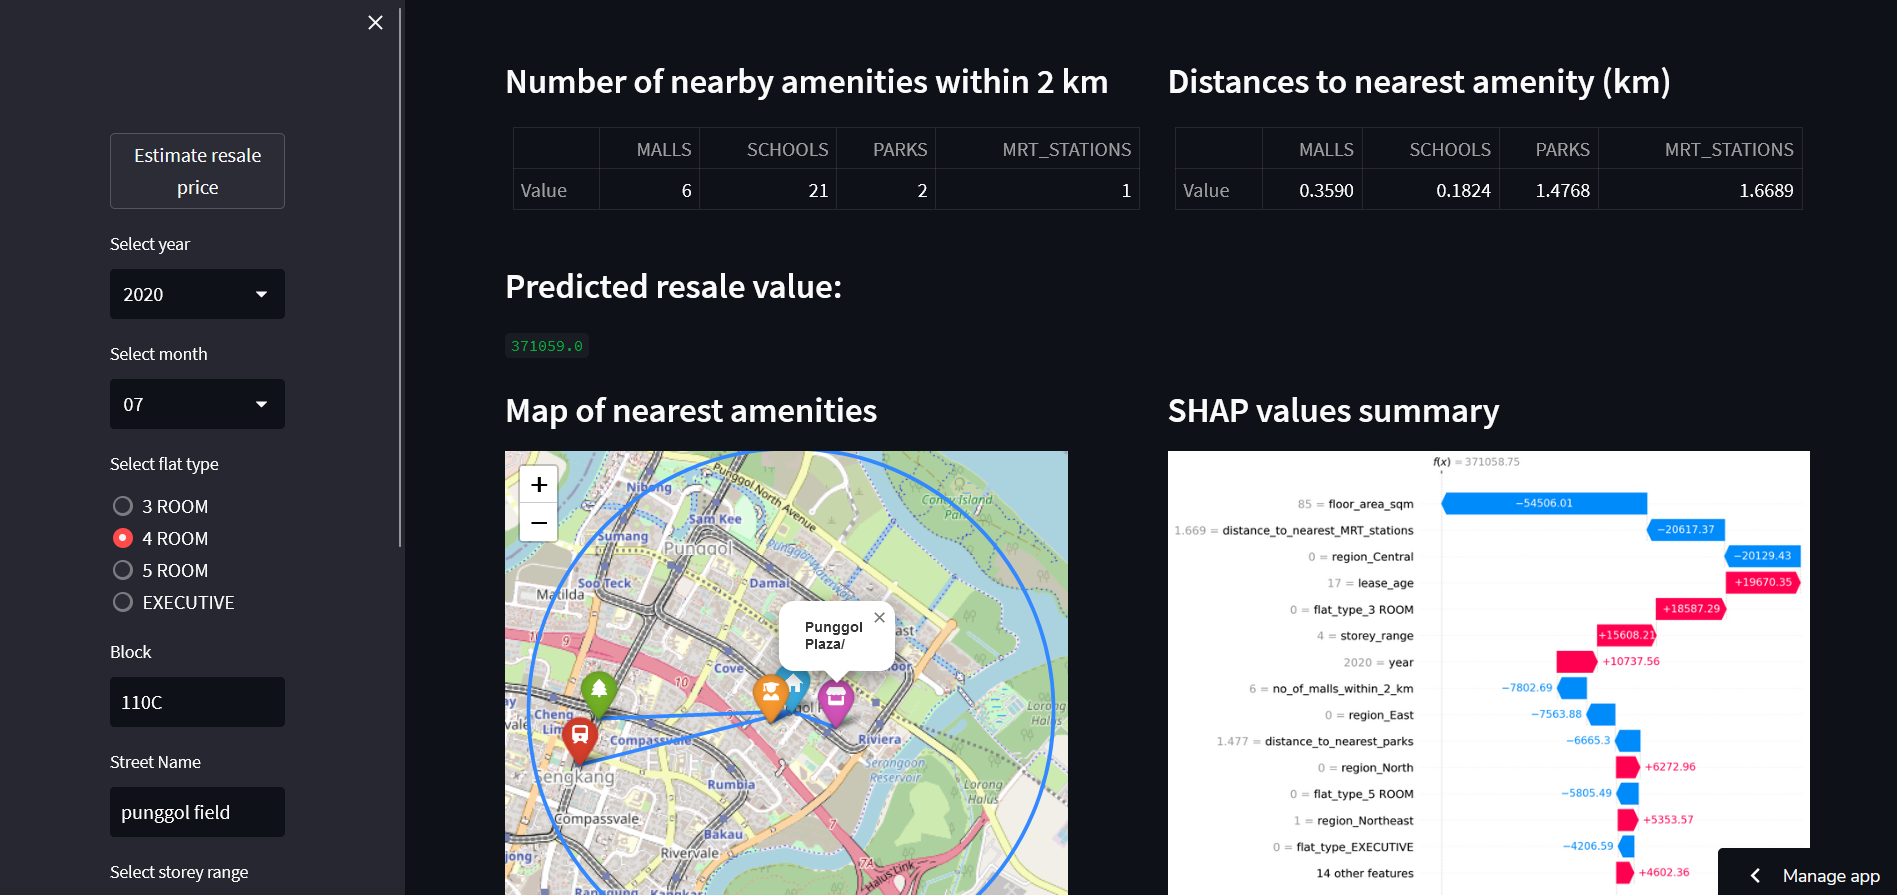
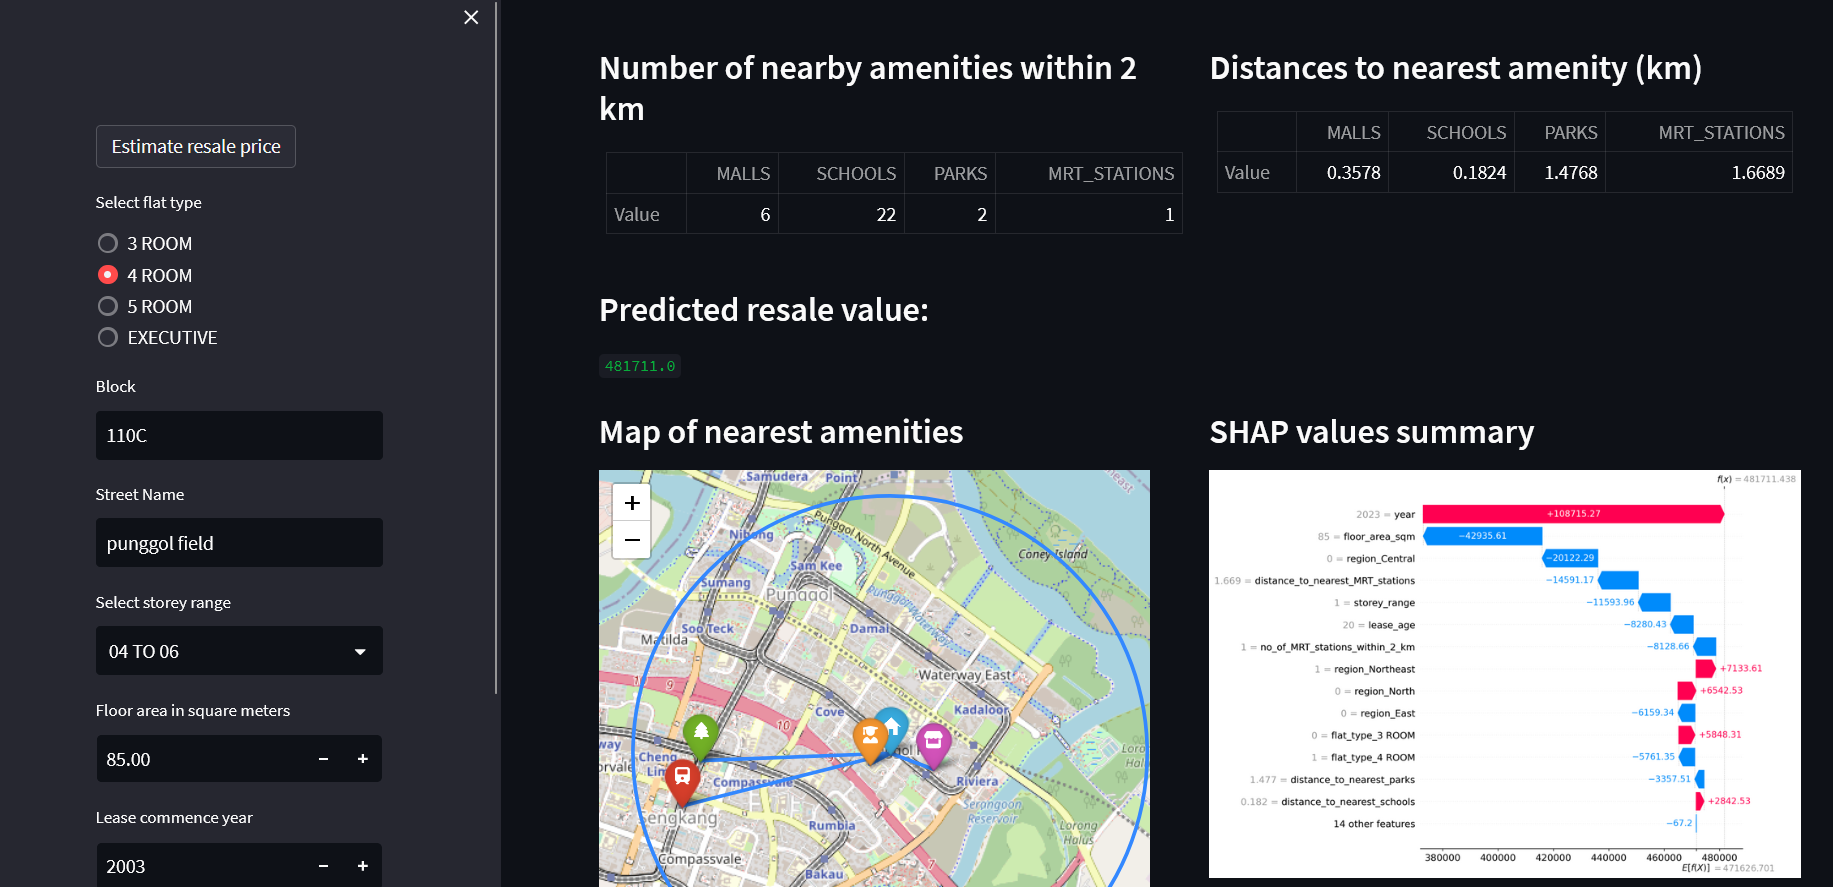
Updated hdb project with retrained model

diff --git a/projects/hdb/hdb.html b/projects/hdb/hdb.html
@@ -89,9 +89,9 @@
                                 </ul>
 
                                 <p>The HDB resale price data was downloaded from Data.gov.sg, 
-                                    containing approximately 120,000 resale transactions from 2015 to 2020. </p>
+                                    containing approximately 192,000 resale transactions from January 2015 to June 2023. </p>
 
-                                <p>There are a total of 117,527 rows and 11 columns in the dataset. Each row represents a hdb resale transaction, 
+                                <p>There are a total of 192,489 rows and 11 columns in the dataset. Each row represents a hdb resale transaction, 
                                     and the target variable is the "resale_price" variable. The EDA selection consists of the following main tasks: 
                                 </p>
                                 <ol type="1">
@@ -164,6 +164,7 @@
                                         <td>No</td>
                                         <td> <p>- majority flat type is "Model A" + significant relationship with target (one-way ANOVA)</p>
                                              <p>- High cardinality (20 unique values) Will need to consolidate common flat models together to reduce cardinality</p></td>
+                                             <p>- can consider dropping samples with "3Gen" (only 11 samples)</p>
                                     </tr>
                                     <tr>
                                         <td>7</td>
@@ -223,7 +224,7 @@
                                         <td>Float</td>
                                         <td>No</td>
                                         <td> <p>- slight positive (+) correlation with the resale value of the flat</p>
-                                             <p>- mean distance to the nearest school is about 300m</p></td>
+                                             <p>- mean distance to the nearest school is about 334m</p></td>
                                     </tr>
                                     <tr>
                                         <td>3</td>
@@ -239,7 +240,7 @@
                                         <td>Float</td>
                                         <td>No</td>
                                         <td> <p>- slight negative (-) correlation with the resale value of the flat</p>
-                                             <p>- mean distance to the nearest mrt station is about 855m</p></td>
+                                             <p>- mean distance to the nearest mrt station is about 851m</p></td>
                                     </tr>
                                     <tr>
                                         <td>5</td>
@@ -255,7 +256,7 @@
                                         <td>Float</td>
                                         <td>No</td>
                                         <td> <p>- slight negative (-) correlation with the resale value of the flat</p>
-                                             <p>- mean distance to the nearest mall is about 665m</p></td>
+                                             <p>- mean distance to the nearest mall is about 668m</p></td>
                                     </tr>
                                     <tr>
                                         <td>7</td>
@@ -361,12 +362,12 @@
                                         <td>Random Forest</td>
                                         <td>69247.1</td>
                                         <td>68800.6</td>
-                                        <td>13282.7</td>
-                                        <td>26525.8</td>
+                                        <td>15128.1</td>
+                                        <td>29324.4</td>
                                         <td>0.771</td>
                                         <td>0.77</td>
-                                        <td>0.992</td>
-                                        <td>0.966</td>
+                                        <td>0.991</td>
+                                        <td>0.967</td>
                                         <td><p>max_depth:20, 
                                             min_samples_leaf:1, 
                                             n_estimators:205</p></td>
@@ -392,31 +393,31 @@
                                     </tr>
                                     <tr>
                                         <td>XGBoost</td>
-                                        <td>25637.9</td>
-                                        <td>29166.1</td>
-                                        <td>16657.6</td>
-                                        <td>25119.7</td>
-                                        <td>0.969</td>
-                                        <td>0.959</td>
-                                        <td>0.987</td>
-                                        <td>0.969</td>
-                                        <td><p>max_depth:8, 
+                                        <td>28757.7</td>
+                                        <td>31126.2</td>
+                                        <td>14394.9</td>
+                                        <td>25792.9</td>
+                                        <td>0.968</td>
+                                        <td>0.963</td>
+                                        <td>0.992</td>
+                                        <td>0.975</td>
+                                        <td><p>max_depth:10, 
                                             learning_rate:0.1, 
-                                            n_estimators:480</p></td>
+                                            n_estimators:470</p></td>
                                     </tr>
                                 </table>
 
-                                <p>For the baseline models, XGBoost has the lowest validation root mean squared error of 29116, 
-                                    and the highest validation R squared score of 0.959. There is not much overfitting on the training set, 
+                                <p>For the baseline models, XGBoost has the lowest validation root mean squared error of 31126, 
+                                    and the highest validation R squared score of 0.963. There is not much overfitting on the training set, 
                                     as observed by the minor differences between the train and validation scores. </p>
 
                                 <p>After fine tuning the hyperparameters to minimize the validation root mean squared error using the Optuna's TPE sampler, 
-                                    the XGBoost model's validation root mean squared error and R squared score decreased and increased to 25119 and 0.969 
+                                    the XGBoost model's validation root mean squared error and R squared score decreased and increased to 25793 and 0.975 
                                     respectively. The fine-tuned XGBoost model was using a learning rate of 0.1 (default: 0.3), 
-                                    maximmum depth of 8 (default: 6) and 480 estimators (default: 100). </p>
+                                    maximmum depth of 10 (default: 6) and 470 estimators (default: 100). </p>
 
                                 <p>The fine-tuned random forest model's validation root mean squared error and R squared score decreased and increased 
-                                    to 26525 and 0.966 respectively. It uses a max depth of 20, and 205 estimators (default: 100)</p>
+                                    to 29324 and 0.967 respectively. It uses a max depth of 20, and 205 estimators (default: 100)</p>
                                 
                                 <p>The selected models are also evaluated on the test set to ensure that the model is able estimate accurate predictions on new unseen data</p>
 
@@ -428,13 +429,13 @@
                                     </tr>
                                     <tr>
                                         <td>Random Forest</td>
-                                        <td>25936.6</td>
+                                        <td>28928.9</td>
                                         <td>0.968</td>
                                     </tr>
                                     <tr>
                                         <td>Random Forest</td>
-                                        <td>24751.4</td>
-                                        <td>0.971</td>
+                                        <td>25151.6</td>
+                                        <td>0.976</td>
                                     </tr>
                                 </table>
 							</div>
@@ -449,7 +450,7 @@
                                 
                                 <a class="image"><img src="images/xgboost_plots.png" width="800" height="300"/></a>
 
-                                <p>Based on the summary plot for the XGBoost model, the top 5 features that have the highest SHAP values across all samples 
+                                <p>Based on the summary plot for the XGBoost model, the top 6 features that have the highest SHAP values across all samples 
                                     are "floor_area_sqm", "lease_age", "region_Central", "distance_to_nearest_MRT_stations" and "storey_range".</p>
 
                                 <table>
@@ -460,6 +461,11 @@
                                     <tr>
                                         <td>floor_area_sqm</td>
                                         <td>The larger the floor area of a flat, the greater its contribution in 
+                                            increasing its predicted resale price, and vice versa</td>
+                                    </tr>
+                                    <tr>
+                                        <td>year</td>
+                                        <td>The more recent the resale transaction, the greater its contribution in 
                                             increasing its predicted resale price, and vice versa</td>
                                     </tr>
                                     <tr>
